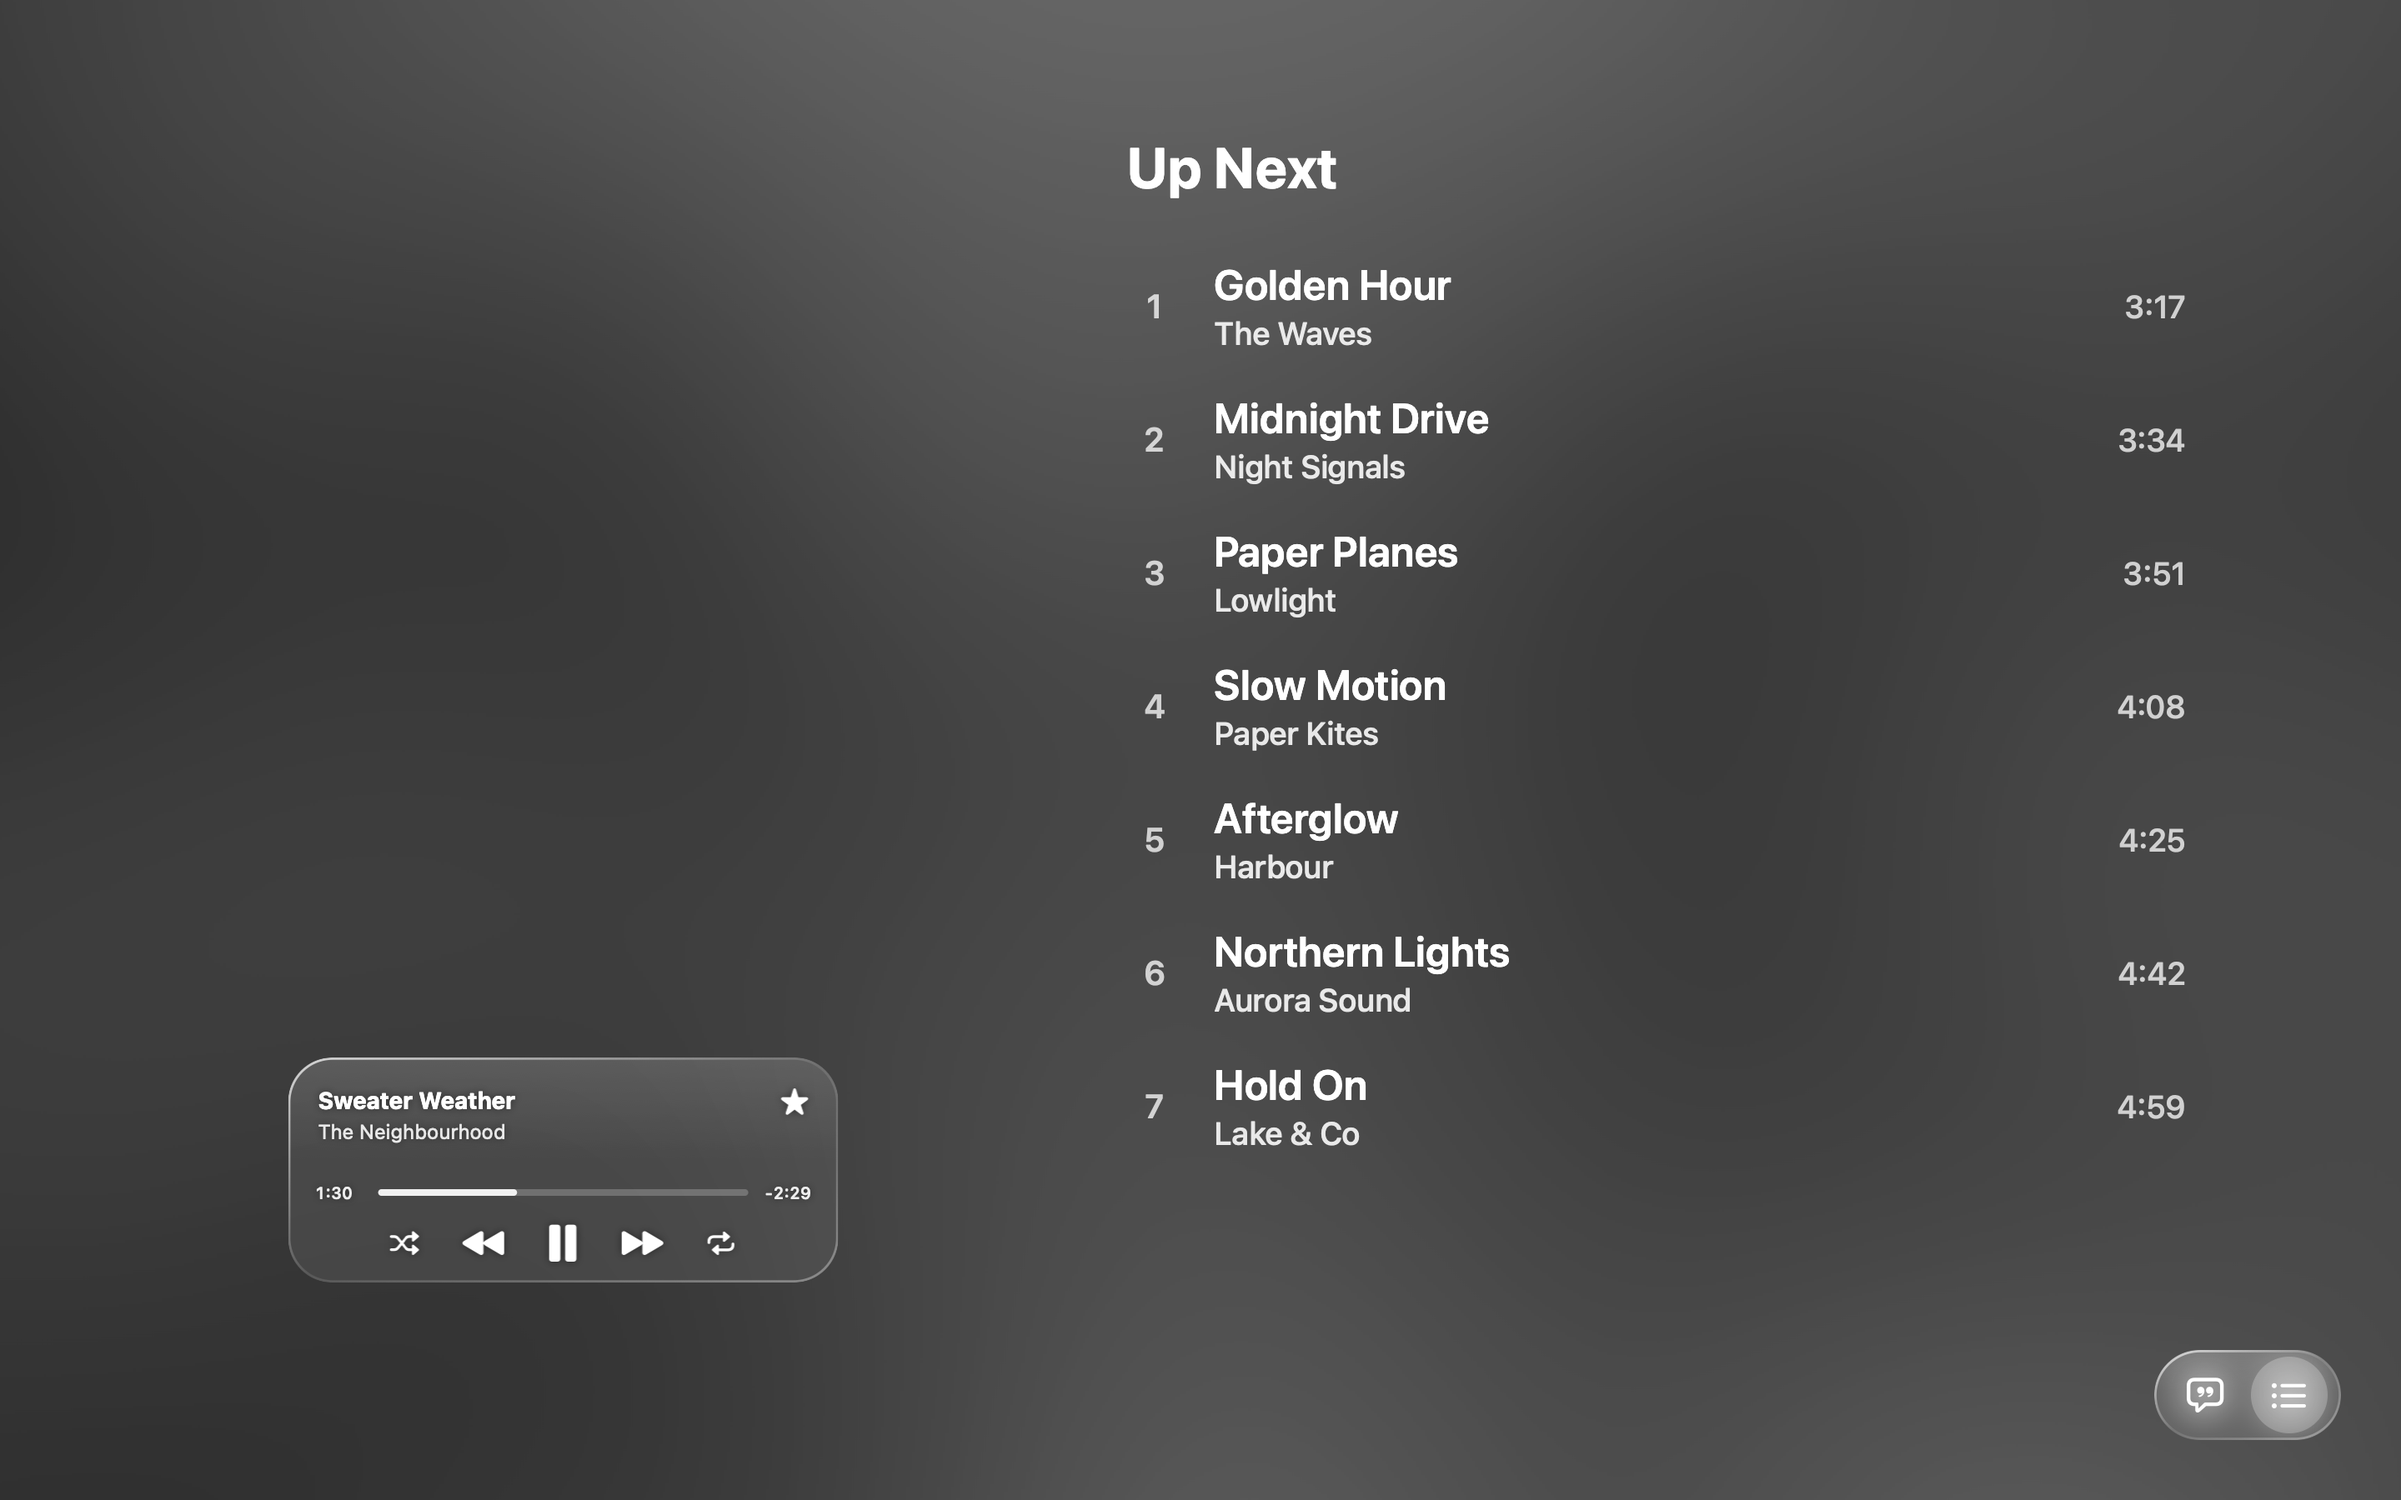
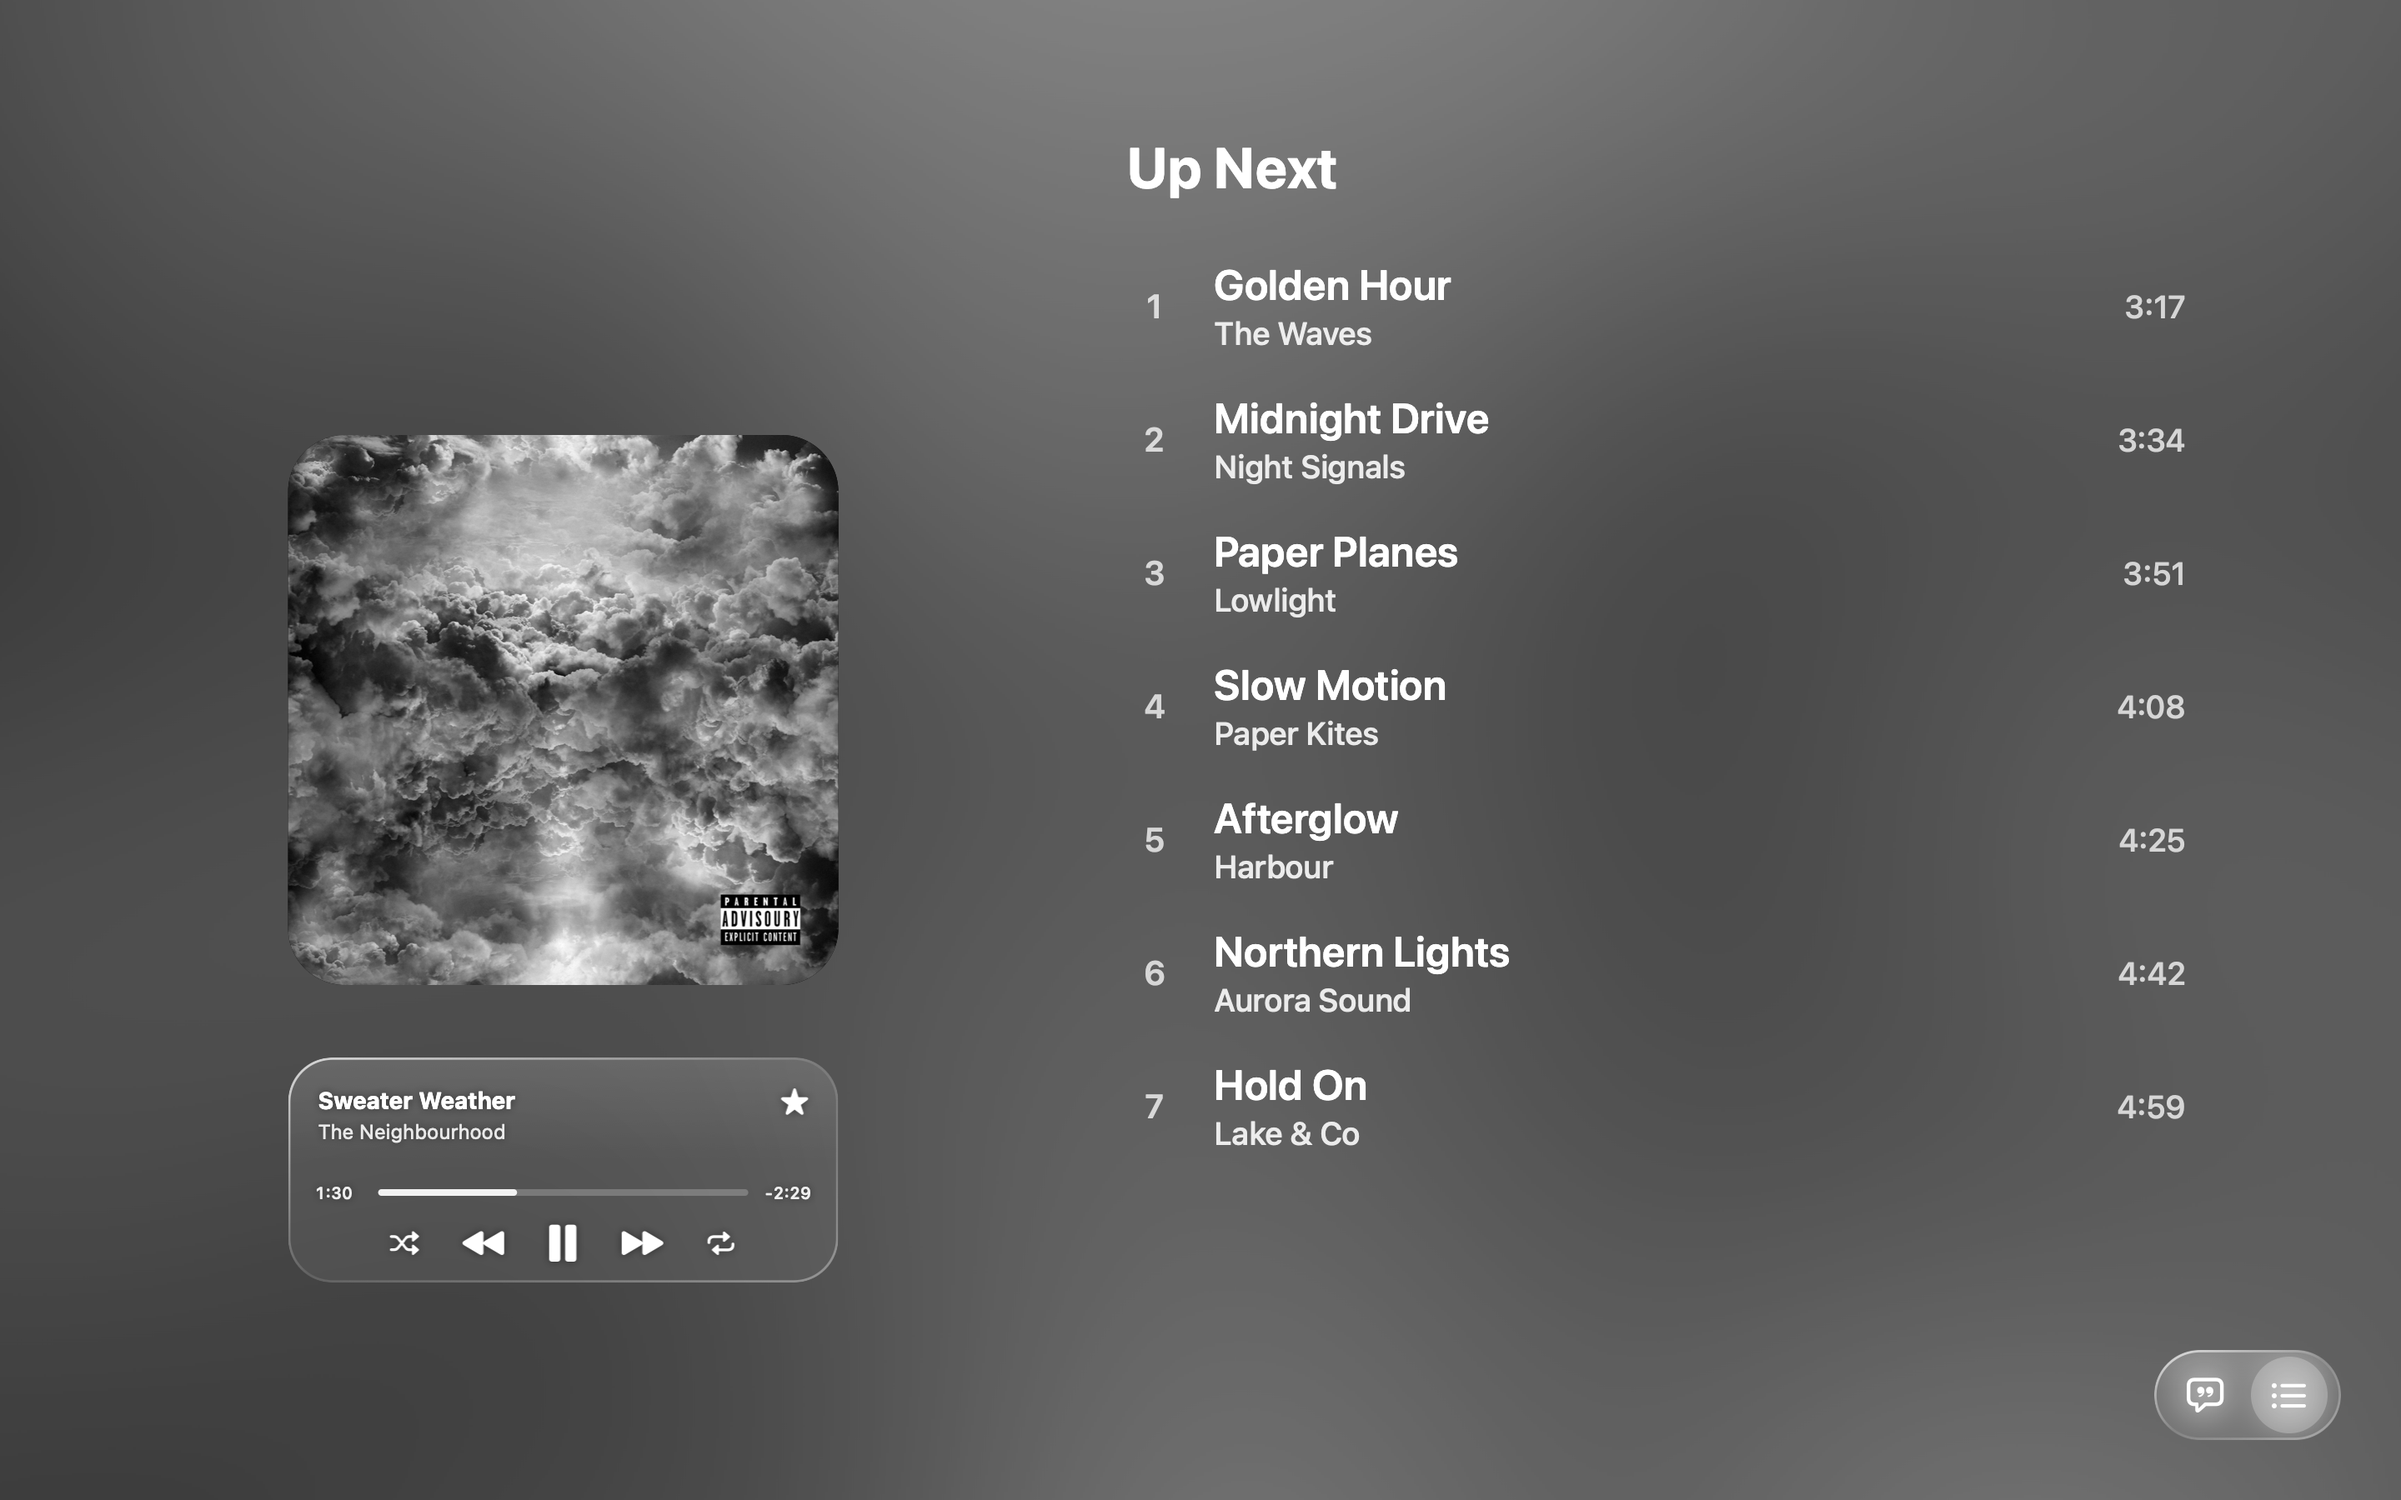
Fix README images: the cover was missing from the fullscreen lock screen image
The demo renderer started a real moving-artwork lookup; with the saved-address cache the answer came back instantly, so the image switched to the video layout (no cover) before it was drawn. Demo renders now skip lookups. Images regenerated, links bumped to ?v=4.

Changed region(s): [[0.0938, 0.28, 0.375, 0.6844], [0.2812, 0.0, 0.7188, 0.1867]]

diff --git a/Sources/MediaController.swift b/Sources/MediaController.swift
@@ -69,10 +69,13 @@ final class MediaController: ObservableObject {
     private var tokens: [(NotificationCenter, NSObjectProtocol)] = []
 
     /// Static instance for rendering README images (`--render`); no observers or timers.
+    private var isDemo = false   // README renders: no network lookups, so the image shows exactly what it is told to
+
     init(demo: NowPlaying, artwork: NSImage) {
         info = demo
         self.artwork = artwork
         lastArtwork = artwork
+        isDemo = true
     }
 
     init() {
@@ -262,6 +265,7 @@ final class MediaController: ObservableObject {
 
     /// Looks up the moving artwork once per album (cached). Called when the big artwork view opens.
     func loadMotionIfNeeded() {
+        guard !isDemo else { return }
         guard let c = info, !c.album.isEmpty else { motionKey = ""; motionURL = nil; return }
         let k = c.artist + "|" + c.album + "|" + c.title
         guard k != motionKey else { return }

diff --git a/README.md b/README.md
@@ -1,6 +1,6 @@
 <div align="center">
 
-<img src="assets/hero.png?v=3" alt="ORBT: album cover and waveform in the macOS menu bar" width="100%">
+<img src="assets/hero.png?v=4" alt="ORBT: album cover and waveform in the macOS menu bar" width="100%">
 
 <img src="assets/icon.png" width="128" alt="ORBT icon">
 
@@ -25,7 +25,7 @@ macOS shows a plain icon for Now Playing. ORBT shows the **real cover** instead,
 <img src="assets/menubar-paused.png" width="560" alt="Paused">
 <br><sub>Playing · Paused</sub>
 <br><br>
-<img src="assets/popover.png?v=3" width="360" alt="The player popover">
+<img src="assets/popover.png?v=4" width="360" alt="The player popover">
 </div>
 
 ## On the lock screen
@@ -33,10 +33,10 @@ macOS shows a plain icon for Now Playing. ORBT shows the **real cover** instead,
 A player card sits above the macOS lock screen: cover, title, seek bar, shuffle / previous / play / next / repeat and a favourite star. Click the small cover for fullscreen: a big cover with a soft colour wash, or, when Apple has made **moving artwork** for the album, the video fills the whole screen.
 
 <div align="center">
-<img src="assets/lockscreen-fullscreen.png?v=3" width="720" alt="Lock screen fullscreen with the big cover and the player card">
+<img src="assets/lockscreen-fullscreen.png?v=4" width="720" alt="Lock screen fullscreen with the big cover and the player card">
 <br><sub>Static cover: the big cover with a colour wash.</sub>
 <br><br>
-<img src="assets/lockscreen-moving.png?v=3" width="720" alt="Lock screen fullscreen with Apple's moving artwork filling the screen">
+<img src="assets/lockscreen-moving.png?v=4" width="720" alt="Lock screen fullscreen with Apple's moving artwork filling the screen">
 <br><sub>Moving artwork: the video fills the screen (a still frame is shown here).</sub>
 <br><br><sub>Rendered from the app's own views (the real lock screen shows your wallpaper and a glass blur behind the card).</sub>
 </div>
@@ -44,9 +44,9 @@ A player card sits above the macOS lock screen: cover, title, seek bar, shuffle 
 In fullscreen, two buttons in the bottom-right corner open **lyrics** (time-synced, the current line big and bright, tap a line to jump there) or the **queue**. Either button can be hidden in Settings.
 
 <div align="center">
-<img src="assets/lockscreen-lyrics.png?v=3" width="720" alt="Lock screen lyrics view with the cover and player card on the left and synced lyrics on the right">
+<img src="assets/lockscreen-lyrics.png?v=4" width="720" alt="Lock screen lyrics view with the cover and player card on the left and synced lyrics on the right">
 <br><br>
-<img src="assets/lockscreen-queue.png?v=3" width="720" alt="Lock screen queue view listing the next songs">
+<img src="assets/lockscreen-queue.png?v=4" width="720" alt="Lock screen queue view listing the next songs">
 <br><sub>Both images use placeholder text, not real lyrics or songs.</sub>
 </div>
 
@@ -65,7 +65,7 @@ In fullscreen, two buttons in the bottom-right corner open **lyrics** (time-sync
 Built to stay out of the way. Measured with `top` on an Apple Silicon MacBook (macOS 27) while a song was playing, with the popover and lock screen closed:
 
 <div align="center">
-<img src="assets/performance.png?v=3" width="720" alt="About 1% CPU while playing, under 1% while paused, about 100 MB memory">
+<img src="assets/performance.png?v=4" width="720" alt="About 1% CPU while playing, under 1% while paused, about 100 MB memory">
 </div>
 
 How: the waveform animates on the graphics side, the menu bar uses a small thumbnail of the cover, updates come from Music's own notifications, and the moving-artwork video is only buffered while the Mac is locked (about +25 MB while it plays; the CPU and memory numbers above were not re-measured with it playing). The memory figure was measured with `top` after launch and includes the lock screen windows (about 24 MB of it).
